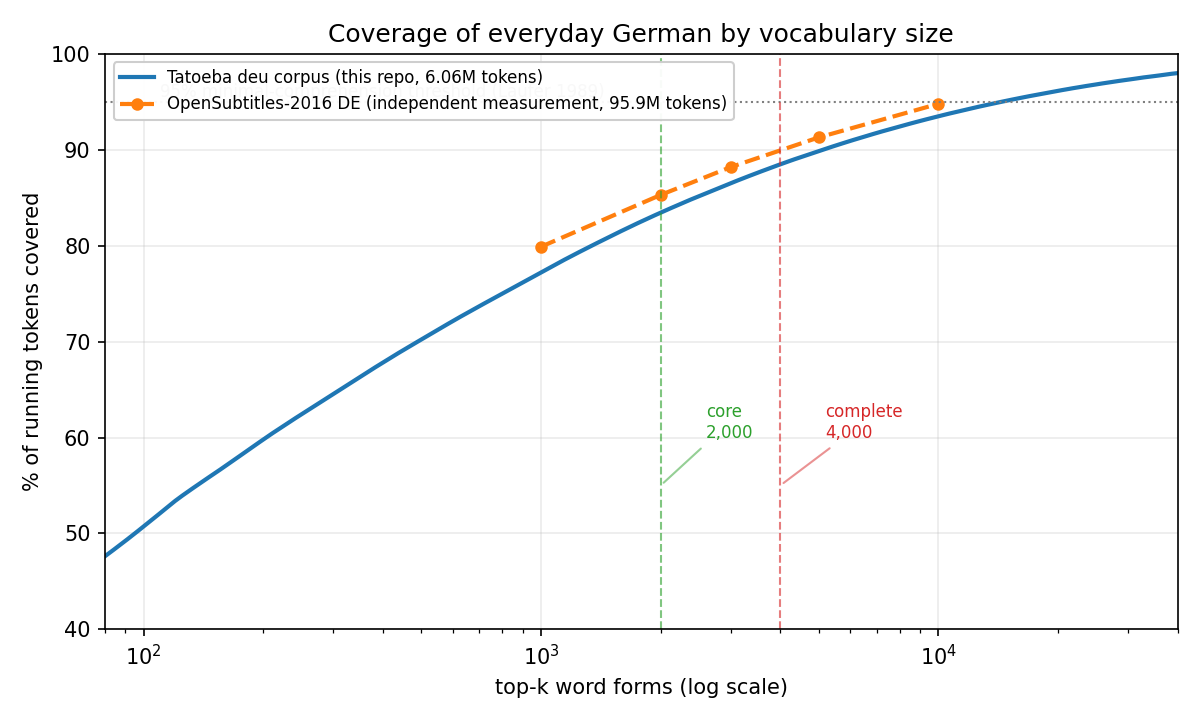
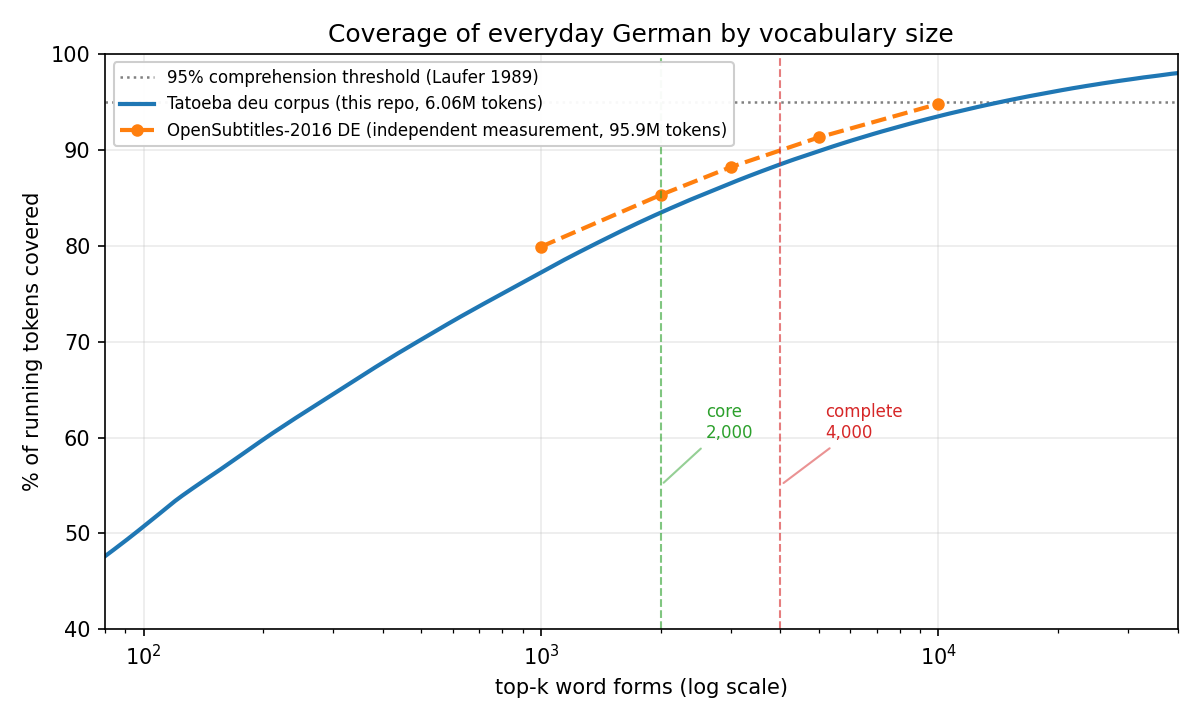
docs: v0.1 release — build results, download + test instructions, final figures

Changed region(s): [[0.0925, 0.0917, 0.6167, 0.2139]]

diff --git a/src/plots.py b/src/plots.py
@@ -28,12 +28,11 @@ sx, sy = read_curve(DERIVED / "subtitles_curve.csv")
 
 # ---- Figure 1: coverage curves -------------------------------------------
 fig, ax = plt.subplots(figsize=(8, 4.8), dpi=150)
+ax.axhline(95, ls=":", c="gray", lw=1.2,
+           label="95% comprehension threshold (Laufer 1989)")
 ax.plot(tx, ty, lw=2, label="Tatoeba deu corpus (this repo, 6.06M tokens)")
 ax.plot(sx, sy, "o--", lw=2, ms=5,
         label="OpenSubtitles-2016 DE (independent measurement, 95.9M tokens)")
-ax.axhline(95, ls=":", c="gray", lw=1)
-ax.text(110, 95.5, "95% minimal-comprehension threshold (Laufer 1989)",
-        fontsize=8, color="gray")
 for x, lbl, c in [(2000, "core\n2,000", "tab:green"), (4000, "complete\n4,000", "tab:red")]:
     ax.axvline(x, ls="--", lw=1, alpha=0.6, c=c)
     ax.annotate(lbl, xy=(x, 55), xytext=(x * 1.3, 60), fontsize=8, color=c,
@@ -85,7 +84,7 @@ if sel_summary.exists():
     for i, v in enumerate(vals):
         ax.text(v + 1, i, str(v), va="center", fontsize=8)
     ax.set_xlabel("cards in deck")
-    ax.set_title("Deck composition: 500 pattern cards (D3 total, D4 mix, D8 criteria)")
+    ax.set_title("Deck composition: 500 pattern cards (D3/D4/D8)")
     ax.grid(axis="x", alpha=0.25)
     fig.tight_layout()
     fig.savefig(FIGS / "fig3_deck_pattern_mix.png")

diff --git a/README.md b/README.md
@@ -2,7 +2,7 @@
 
 > **Suggested GitHub description:** German Anki deck sized by evidence — the Pareto-optimal core vocabulary taught inside the highest-frequency sentence patterns. Reproducible pipeline, every number traced to its source.
 
-Status: **work in progress** — data layer and methodology complete; pattern extraction and deck assembly active.
+Status: **v0.1 released** — deck, pipeline, tests and methodology complete. Download: [Releases](https://github.com/gbrlpzz/german-pareto-deck/releases/latest).
 
 ## Scientific overview
 
@@ -48,12 +48,22 @@ stopping at 4,000 instead of marching to 10,000+.*
 
 ## What the deck teaches
 
-- **Word cards** — production direction: English cue plus example sentence with the target
-  blanked; the back shows the German form, the completed sentence, a chunk gloss, and (when
-  available) the authentic English translation.
-- **Pattern cards** — the pattern is cloze-deleted inside one authentic Tatoeba sentence;
-  recognition reverses are reserved for modal particles and routines.
-- Tags encode tier (`core` / `ext`) and pattern class, so anything can be suspended selectively.
+v0.1 ships **3,425 cards**:
+
+- **2,963 word cards** (1,507 core / 1,456 extension) — production direction: English cue
+  plus example sentence with the target blanked; the back shows the German form, the
+  completed sentence, a best-effort English gloss, and (when available) the authentic
+  English translation. Lemma-grouped (rule-based lemmatizer), tagged by tier and rank band.
+- **461 pattern cards** — the pattern cloze-deleted inside one authentic Tatoeba sentence
+  with its English translation. 500 patterns are selected (Fig. 3); 39 are dropped at build
+  time with explicit accounting when the authentic sentence cannot host the cloze.
+- Tags encode tier (`core` / `ext`), rank band, pattern group and class, so anything can be
+  suspended selectively.
+
+![Deck composition](docs/figures/fig3_deck_pattern_mix.png)
+
+*Figure 3. Final pattern mix: the D4 literature allocation after D8-significant candidate
+availability and documented redistribution (trace: `derived/selection_summary.json`).*
 
 ## Companion documents
 
@@ -73,10 +83,24 @@ flowchart LR
 
 ```bash
 python3 -m venv .venv && .venv/bin/pip install -r requirements.txt
-.venv/bin/python src/pipeline.py fetch     # re-downloads corpora, prints sha256
-.venv/bin/python src/pipeline.py freq      # -> derived/top_forms.csv
-.venv/bin/python src/plots.py              # regenerates every figure in docs/figures
-# WIP: patterns / sentences / deck stages -> out/german-pareto-deck.apkg
+.venv/bin/python src/pipeline.py fetch       # re-downloads corpora, prints sha256
+.venv/bin/python src/pipeline.py freq        # -> derived/top_forms.csv
+.venv/bin/python src/pipeline.py patterns    # -> derived/patterns.csv (D8 criteria)
+.venv/bin/python src/select_patterns.py      # -> derived/patterns_selected.csv (500)
+.venv/bin/python src/lemmatize.py            # -> derived/lemma_groups.csv
+.venv/bin/python src/words.py                # -> derived/wordlist.csv
+.venv/bin/python src/sentences.py            # -> derived/word_sentences.csv
+.venv/bin/python src/translations.py         # -> derived/translations.csv
+.venv/bin/python src/glosses.py              # -> derived/glosses.csv (best-effort, slow)
+.venv/bin/python src/deck.py                 # -> out/german-pareto-deck.apkg
+.venv/bin/python src/plots.py                # regenerates every figure in docs/figures
+```
+
+Tests:
+
+```bash
+.venv/bin/python -m unittest test_pipeline -v
+.venv/bin/python test_lemmatize.py
 ```
 
 ## Repository layout

diff --git a/docs/METHODOLOGY.md b/docs/METHODOLOGY.md
@@ -13,7 +13,7 @@ with every number either measured here or cited. Non-goal: reading-literature co
 | D3 | Pattern deck size | ~500 cards (min viable 300) | ADOPTED |
 | D4 | Pattern class mix | see §4b table | ADOPTED |
 | D5 | Card format | production cloze sentence; recognition reverse only for particles/routines | ADOPTED |
-| D6 | Lemma handling | form-level lists + lemmatization pass; bias documented | PARTIAL |
+| D6 | Lemma handling | rule-based lemmatizer (`src/lemmatize.py`), 24.5% of types grouped, suppletive paradigms via closed dictionary, conservative by design | IMPLEMENTED |
 | D7 | Licensing | code Apache-2.0; no raw-corpus redistribution; refetch instead | ADOPTED |
 
 ## 1. Terms
@@ -138,3 +138,18 @@ Applied to EVERY selection in this repo, not only vocabulary size. Each constant
 Observed redistribution (v0.1): one move of 78 slots, funkverbgefüge (20 available of 90)
 and routine (42 of 50) shortfalls absorbed by perfekt/modal, separable, particle/connector,
 bundle — trace in `derived/selection_summary.json`.
+
+
+## 11. Build results (v0.1)
+
+| Artifact | Count | Notes |
+|---|---:|---|
+| Word cards | 2,963 | 1,507 core + 1,456 extension; from top-4,000 forms — the ~26% form-to-lemma compression matches the D2 adjustment |
+| Pattern cards | 461 | from 500 selected; 39 skipped at build with explicit accounting (authentic sentence could not host the cloze: punctuation/apostrophe variants) |
+| Translations attached | ~65% of cards | Tatoeba deu-eng links; untranslated cards still carry the authentic sentence + gloss |
+| EN glosses | best-effort | Wiktionary definitions, rate-limit-aware fetcher, resume-safe |
+| Tests | OK | schema + selection-invariant suite; lemmatizer rule tests |
+
+Known limitations at ship: form-level residual homograph merges (~0.3%, no POS resource);
+preterite vowel-change forms outside the closed dictionary stay ungrouped; 39-pattern cloze
+skips; Tatoeba register bias (Fig. 1 bracket). All are visible in the decision log above.

diff --git a/docs/DATA_SOURCES.md b/docs/DATA_SOURCES.md
@@ -5,4 +5,4 @@
 | Tatoeba `deu_sentences_detailed.tsv.bz2` | sentence corpus (patterns, examples, frequency fallback) | downloads.tatoeba.org/exports/per_language/deu/deu_sentences_detailed.tsv.bz2 | 2026-08 | 254ab55937691edf9d5b6159095e6f6eff40ba0ed61e2ff16d682500703d18f4 | CC BY 2.0 FR |
 | Tatoeba `links.tar.bz2` + `eng_sentences_detailed.tsv.bz2` | EN translations for examples (links sha256 `560404e552abbc78…`) | downloads.tatoeba.org/exports/ | 2026-08 | see left | CC BY 2.0 FR |
 | hermitdave/FrequencyWords `de_50k.txt` (OpenSubtitles 2016) | spoken-register frequency anchor | github.com/hermitdave/FrequencyWords | UNREACHABLE from build env; curve independently measured from primary dataset (see METHODOLOGY §2) | — | OpenSubtitles-derived, attribution |
-| Wiktionary REST definitions | EN glosses for word cards (best-effort) | en.wiktionary.org/api/rest_v1/ | planned | — | CC BY-SA 3.0 / GFDL (definitions) |
+| Wiktionary REST definitions | EN glosses for word cards (best-effort) | en.wiktionary.org/api/rest_v1/ | 2026-08 | n/a (API) | CC BY-SA 3.0 / GFDL (definitions) |
